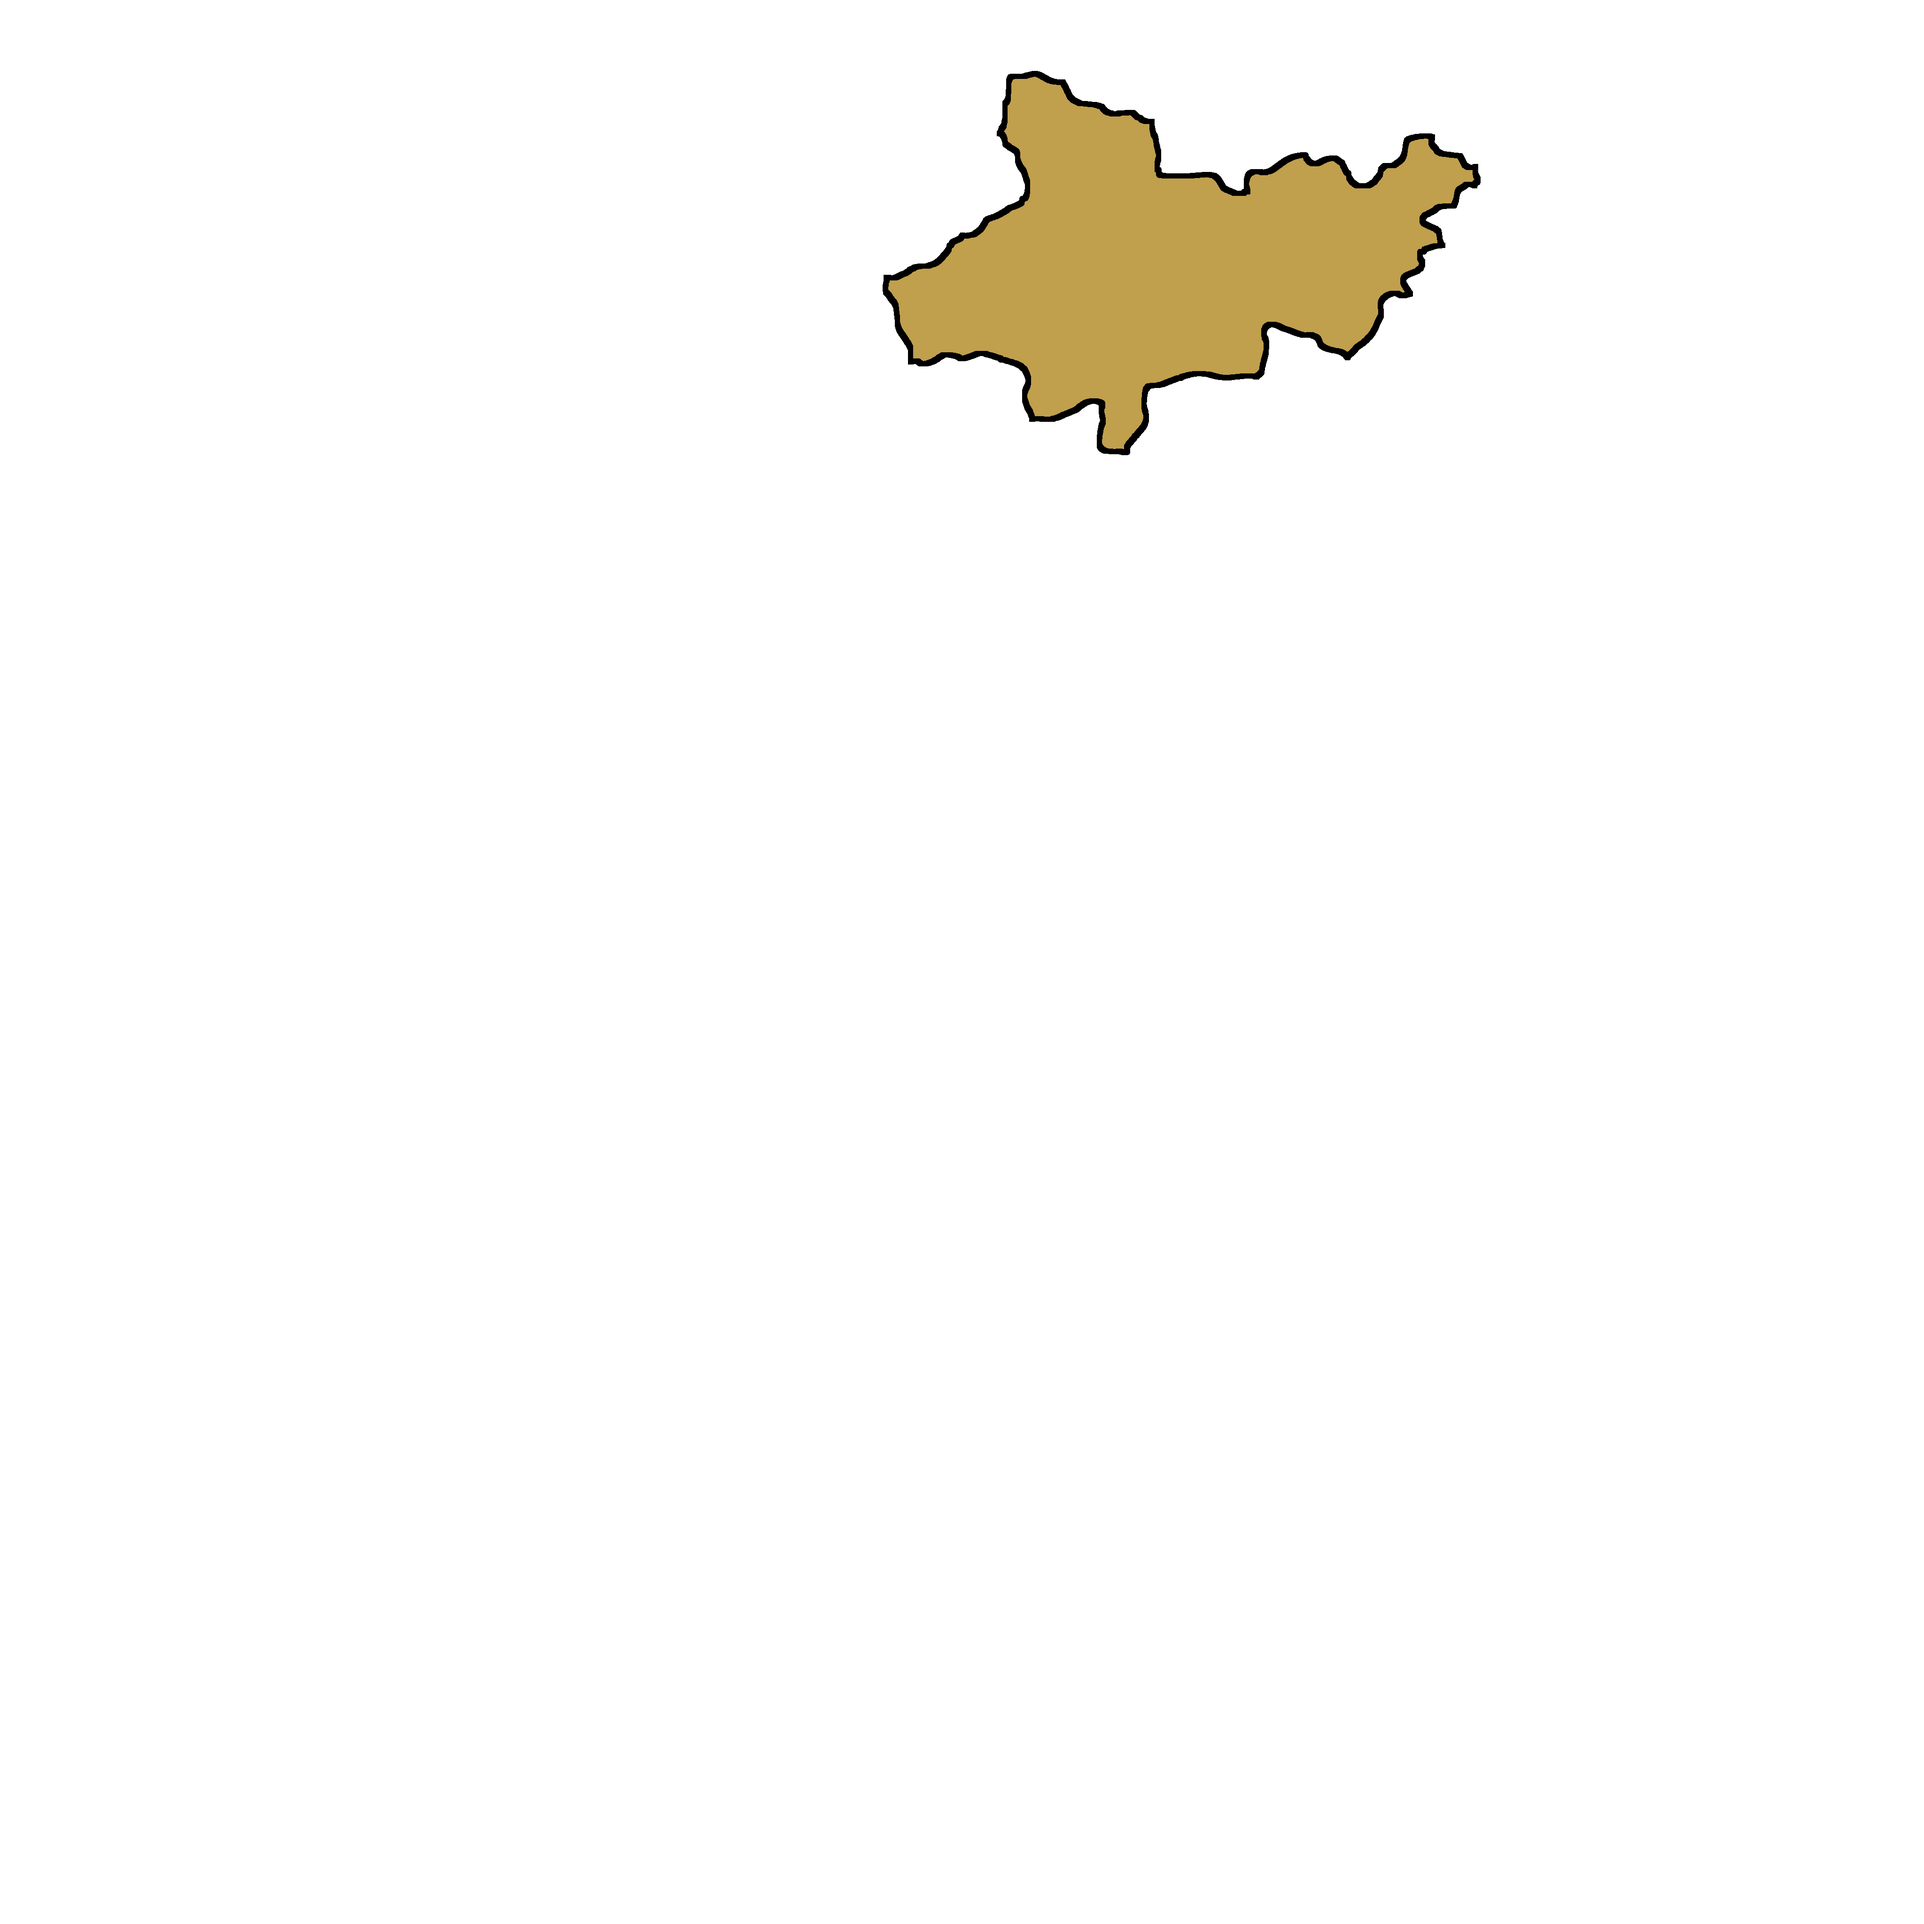
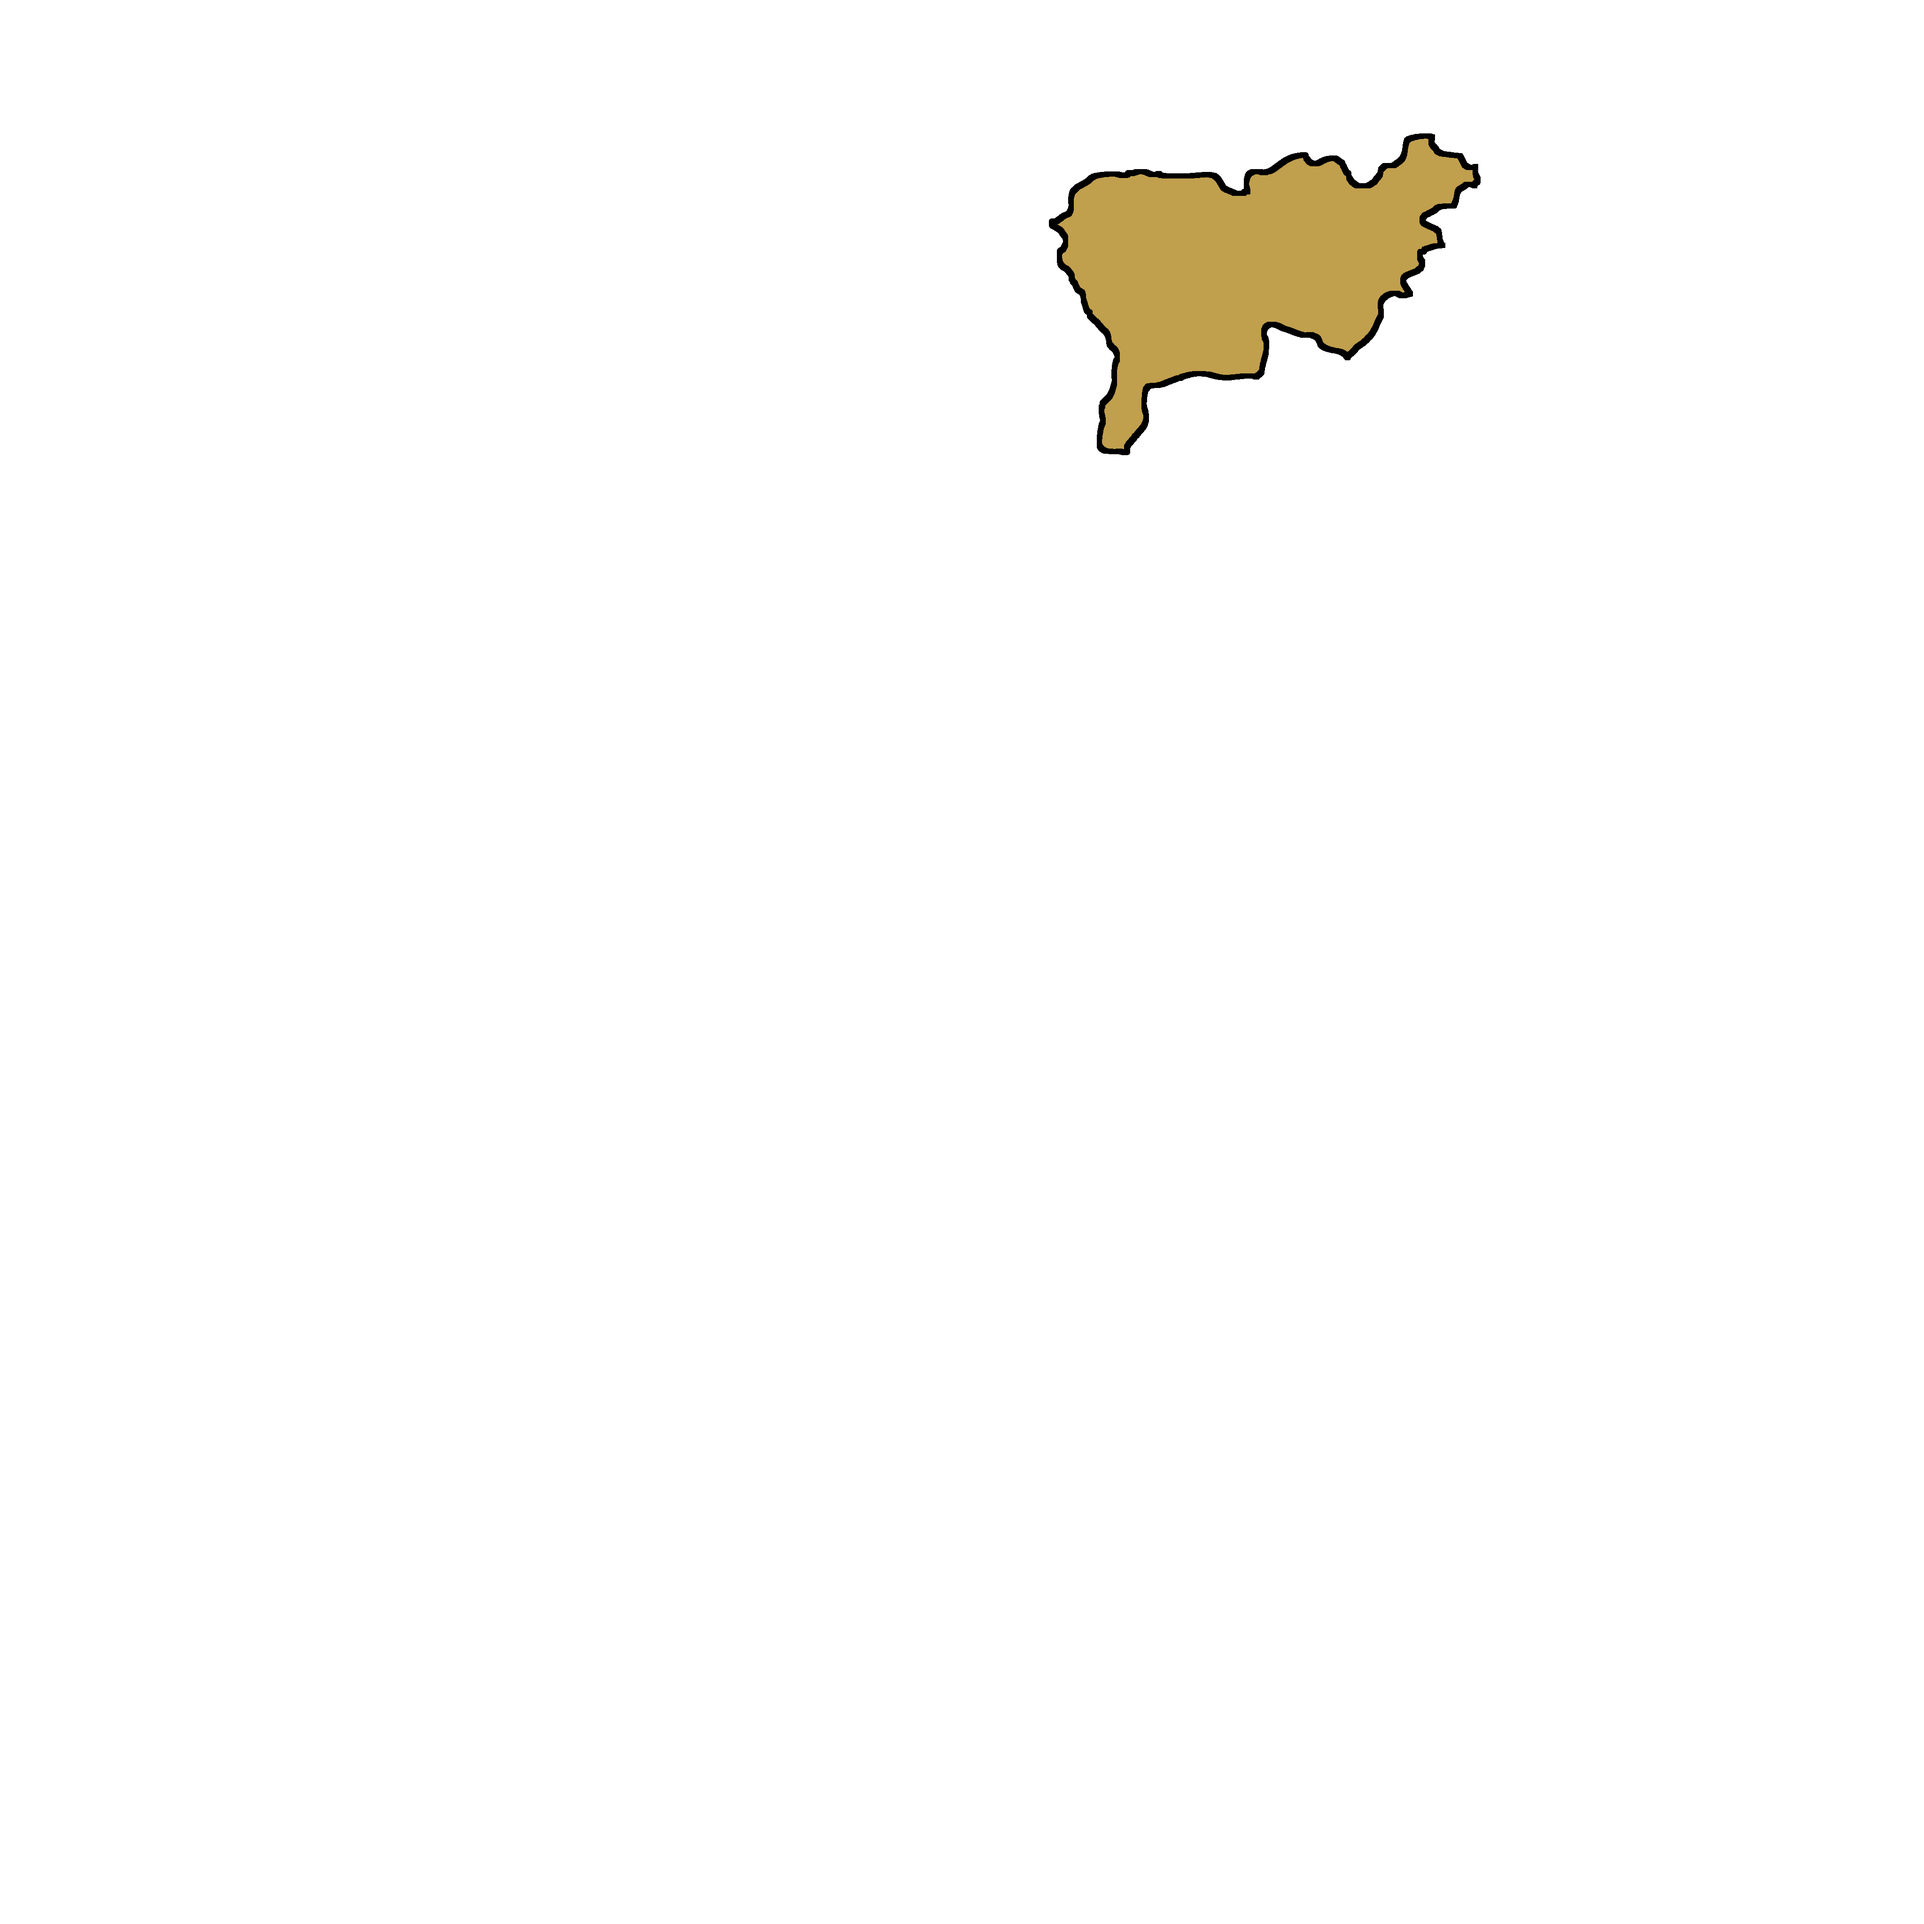
nested generation complete

Changed region(s): [[0.4375, 0.0312, 0.625, 0.2188]]

diff --git a/backend/src/scripts/mapgen/regiongen.py b/backend/src/scripts/mapgen/regiongen.py
@@ -21,7 +21,7 @@ def sanitize_filename(color_tuple):
     """
     return "_".join(map(str, color_tuple)).replace("(", "").replace(")", "").replace(",", "").replace(" ", "")
 
-def draw(x, y, new_img, new_image_path, pixel_color, color, visited_pixels, img_data, width, height, painted_colour, overrides, output_folder):
+def draw(x, y, new_img, new_image_path, pixel_color, color, visited_pixels, img_data, width, height, painted_colour, overrides, output_folder, first):
     """
     Fills and saves an image for a region.
     """
@@ -30,16 +30,16 @@ def draw(x, y, new_img, new_image_path, pixel_color, color, visited_pixels, img_
         flood_fill(x, y, pixel_color, color, visited_pixels, img_data, new_img_data, width, height)
         painted_colour.add(color)
         new_img.save(new_image_path, "PNG")
-        if is_overlord(color, overrides):
+        if is_overlord(color, overrides) and first:
             nested_filename = sanitize_filename(color) + "_nested.png"
             nested_image_path = os.path.join(output_folder, nested_filename)
             nested_img = None
             if not os.path.exists(nested_image_path):
                 nested_img = Image.new("RGBA", (width, height), (0, 0, 0, 0))  # Transparent image
-                print(f"New overlord nested image saved: {new_image_path}")
+                print(f"New overlord nested image saved: {nested_image_path}")
             else:
                 nested_img = Image.open(nested_image_path)
-                print(f"Edited Overlord: {new_image_path}")
+                print(f"Edited nested Overlord: {nested_image_path}")
             nested_img_data = nested_img.load()
             flood_fill(x, y, pixel_color, color, set(), img_data, nested_img_data, width, height)
             nested_img.save(nested_image_path, "PNG")
@@ -49,11 +49,11 @@ def draw(x, y, new_img, new_image_path, pixel_color, color, visited_pixels, img_
             overlord_image_path = os.path.join(output_folder, overlord_filename)
             if overlord_color not in painted_colour:
                 overlord_img = Image.new("RGBA", (width, height), (0, 0, 0, 0))  # Transparent image
-                draw(x, y, overlord_img, overlord_image_path, pixel_color, overlord_color, set(), img_data, width, height, painted_colour, overrides, output_folder)
+                draw(x, y, overlord_img, overlord_image_path, pixel_color, overlord_color, set(), img_data, width, height, painted_colour, overrides, output_folder, False)
                 print(f"New overlord image saved: {new_image_path}")
             else:
                 overlord_img = Image.open(overlord_image_path)
-                draw(x, y, overlord_img, overlord_image_path, pixel_color, overlord_color, set(), img_data, width, height, painted_colour, overrides, output_folder)
+                draw(x, y, overlord_img, overlord_image_path, pixel_color, overlord_color, set(), img_data, width, height, painted_colour, overrides, output_folder, False)
                 print(f"Edited Overlord: {new_image_path}")
 
     except Exception as e:
@@ -109,13 +109,13 @@ def generate_regions(mode, borders, frontend_save):
 
                 if color_code not in painted_colour:
                     new_img = Image.new("RGBA", (width, height), (0, 0, 0, 0))  # Transparent image
-                    draw(x, y, new_img, new_image_path, pixel_color, color_code, visited_pixels, img_data, width, height, painted_colour, overrides, output_folder)
+                    draw(x, y, new_img, new_image_path, pixel_color, color_code, visited_pixels, img_data, width, height, painted_colour, overrides, output_folder, True)
                     print(f"New image saved: {new_image_path}")
                     
 
                 else:
                     new_img = Image.open(new_image_path)
-                    draw(x, y, new_img, new_image_path, pixel_color, color_code, visited_pixels, img_data, width, height, painted_colour, overrides, output_folder)
+                    draw(x, y, new_img, new_image_path, pixel_color, color_code, visited_pixels, img_data, width, height, painted_colour, overrides, output_folder, True)
                     print(f"Edited: {new_image_path}")
 
     # === STEP 2: Generate hover versions by lightening existing images ===
